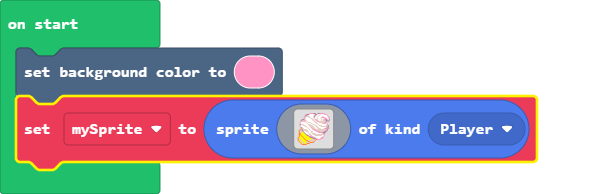
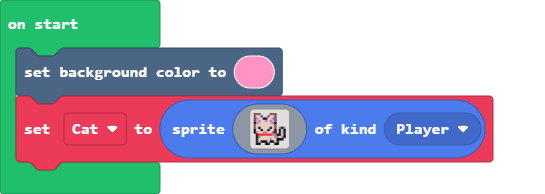
Update pxt.json, main.blocks, main.ts, tilemap.g.jres, tilemap.g.ts, images.g.jres, images.g.ts

diff --git a/images.g.ts b/images.g.ts
@@ -1,0 +1,102 @@
+// Auto-generated code. Do not edit.
+namespace myImages {
+
+    helpers._registerFactory("image", function(name: string) {
+        switch(helpers.stringTrim(name)) {
+            case "image1":
+            case "Cat":return img`
+e e e . . . . e e e . . . . 
+c d d c . . c d d c . . . . 
+c b d d f f d d b c . . . . 
+c 3 b d d b d b 3 c . . . . 
+f b 3 d d d d 3 b f . . . . 
+e d d d d d d d d e . . . . 
+e d f d d d d f d e . b f b 
+f d d f d d f d d f . f d f 
+f b d d b b d d 2 f . f d f 
+. f 2 2 2 2 2 2 b b f f d f 
+. f b d d d d d d b b d b f 
+. f d d d d d b d d f f f . 
+. f d f f f d f f d f . . . 
+. f f . . f f . . f f . . . 
+`;
+            case "image2":
+            case "Flower":return img`
+................................................................
+................................................................
+................................................................
+................................................................
+................................................................
+................................................................
+................................................................
+................................................................
+................................................................
+................................................................
+.........................22.....................................
+........................2222....................................
+.......................222222...................................
+.......................222222...................................
+.......................222222...................................
+.......................222222...................................
+................2222...222222...2222............................
+...............2222222.222222.2222222...........................
+..............222222222.2222.222222222..........................
+..............222222222222222222222222..........................
+..............222222222225522222222222..........................
+...............2222222225555222222222...........................
+................22222222555222222222............................
+.................222222222222222222.............................
+.......................222222...................................
+......................22222222..................................
+.....................2222222222.................................
+....................222222.22222................................
+...................2222222.222222...............................
+...................222222...222222..............................
+...................222222...222222..............................
+...................222222...222222..............................
+....................2222.....2222...............................
+................................................................
+................................................................
+................................................................
+................................................................
+................................................................
+................................................................
+................................................................
+................................................................
+................................................................
+................................................................
+................................................................
+................................................................
+................................................................
+................................................................
+................................................................
+................................................................
+................................................................
+................................................................
+................................................................
+................................................................
+................................................................
+................................................................
+................................................................
+................................................................
+................................................................
+................................................................
+................................................................
+................................................................
+................................................................
+................................................................
+................................................................
+`;
+        }
+        return null;
+    })
+
+    helpers._registerFactory("animation", function(name: string) {
+        switch(helpers.stringTrim(name)) {
+
+        }
+        return null;
+    })
+
+}
+// Auto-generated code. Do not edit.

diff --git a/main.ts b/main.ts
@@ -1,35 +1,2 @@
 scene.setBackgroundColor(3)
-let mySprite = sprites.create(img`
-    ............3333bb..bb33333.....
-    ........3bb31111d3b311d111d33...
-    .......3bdd11111dbd11d11111113..
-    .......bdddd1111bd11d111dd11113.
-    ......3d111dd111b11d111dd33d11d3
-    ......3d11111dd1d11d111d11d33113
-    ....bb3d111111dd13dd111d1dd3b31b
-    ...b3d3dd111111dd13dd11d1dddbbdb
-    ...3ddd31d111111dd133dddddddb.b.
-    ..311111d1ddd1111dd11dddddd33...
-    ..3111111d111dd111dd1111dd3313..
-    ..bddd1111ddd11dd111d111111113..
-    ..311ddd111dddd11dd11ddd1111ddb.
-    ..31111dd111dddd11dd111dddddddb.
-    ...bd1111d1113ddd11dd1111111d3b.
-    ...4dd1111d1113ddd11ddd111d333b.
-    ..4dbdddd11d11133ddddddddddddb..
-    .4ddbddddd11d111d33ddddddddd3b..
-    .4dddb11ddd11dd111d333dddd3bb...
-    .4dd55b111d11dd11111d3333bbb....
-    .445555b111d11dddd111111ddb.....
-    .4455555bd1d311ddddddddddd3.....
-    .45455555bb1d3111ddddddd113.....
-    .4554555555b333d1111111113......
-    455554555555bbb33d11111d33......
-    4d555545555555dbbb3d11d33.......
-    4dd5555455555ddddd43333.........
-    45dd555544ddddddd4..............
-    .45dd5555d44dddd4...............
-    ..45dd55dddd4444................
-    ...45dd55444....................
-    ....44444.......................
-    `, SpriteKind.Player)
+let Cat = sprites.create(assets.image`Cat`, SpriteKind.Player)

diff --git a/tilemap.g.ts b/tilemap.g.ts
@@ -1,0 +1,14 @@
+// Auto-generated code. Do not edit.
+namespace myTiles {
+    //% fixedInstance jres blockIdentity=images._tile
+    export const transparency16 = image.ofBuffer(hex``);
+
+    helpers._registerFactory("tile", function(name: string) {
+        switch(helpers.stringTrim(name)) {
+            case "transparency16":return transparency16;
+        }
+        return null;
+    })
+
+}
+// Auto-generated code. Do not edit.
